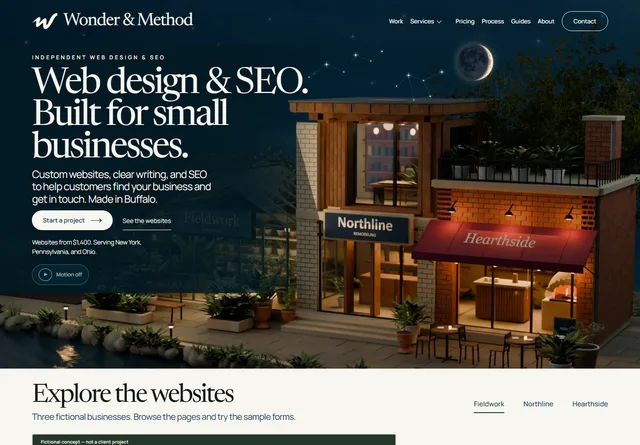
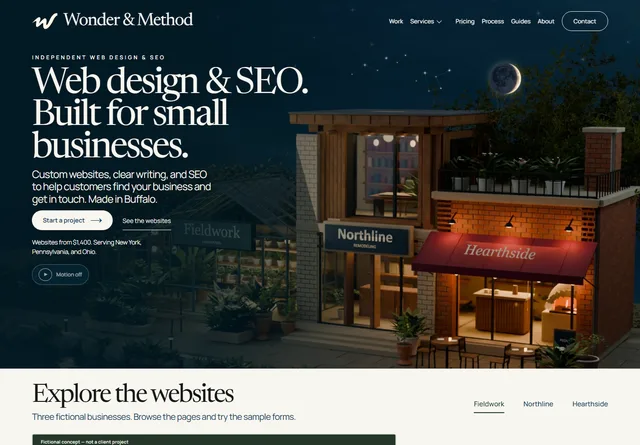
Keep homepage sky effects above the city artwork

diff --git a/src/assets/living-city.css b/src/assets/living-city.css
@@ -10,8 +10,10 @@
 .studio-home.edition-living-city .site-header .service-links a:last-of-type{border:0;padding:10px 16px;color:var(--city-ink)}
 .studio-home.edition-living-city #main{max-width:none;padding:0;margin:0}
 .city-hero{position:relative;isolation:isolate;width:100%;min-height:max(720px,45rem);aspect-ratio:3/2;max-height:max(1200px,75rem);background:#052b3b;color:var(--city-paper);overflow:hidden}
-.city-scene{position:absolute;inset:auto 0 0;height:min(100%,max(720px,66.6667vw));z-index:-2}
-.city-scene picture,.city-poster,.city-film{display:block;width:100%;height:100%;object-fit:cover;object-position:50% 50%}
+.city-scene{position:absolute;inset:auto 0 0;height:min(100%,max(720px,66.6667vw));z-index:-2;container-type:size;overflow:hidden}
+.city-scene picture,.city-poster,.city-film{display:block;width:100%;height:100%;object-fit:cover;object-position:50% 30%}
+/* Match object-fit:cover so decorations stay in the artwork's sky at every crop. */
+.city-atmosphere{position:absolute;z-index:1;left:50%;top:30%;width:max(100cqw,150cqh);height:max(100cqh,66.6666667cqw);transform:translate(-50%,-30%);pointer-events:none}
 .city-film{position:absolute;inset:0;opacity:0;pointer-events:none}
 .has-city-frame .city-film{opacity:1}
 .city-copy{position:relative;padding:max(clamp(100px,8.3vw,150px),6.25rem) 5% 0;width:100%;pointer-events:none}
@@ -106,7 +108,7 @@ html:not(.nav-ready) .studio-home.edition-living-city .city-copy{padding-top:26p
 .city-hero{display:grid;aspect-ratio:auto;grid-template-columns:repeat(auto-fit,minmax(min(100%,max(26rem,48%)),1fr));grid-template-rows:1fr auto;column-gap:4%;align-items:start;padding:max(clamp(110px,8.3vw,150px),calc(var(--site-header-height,94px) + 12px)) 5% 28px;min-height:max(820px,51.25rem);max-height:none}
 .city-scene{height:100%}
 .city-copy{z-index:4;width:auto;padding:0}.city-copy h1{max-width:none}.city-actions{gap:22px}.city-copy .city-lede{max-width:29ch}
-.city-copy::before{content:'';position:absolute;inset:-18px -22px -18px -5vw;z-index:-1;background:linear-gradient(90deg,#021923ed 0%,#021923dc 76%,#02192300 100%);pointer-events:none}@media(max-width:1023px){.city-copy::before{content:none}}
+.city-hero::after{content:'';position:absolute;inset:0;z-index:-1;background:linear-gradient(90deg,#021923e6 0%,#021923c7 31%,#02192370 48%,#02192300 70%);pointer-events:none}@media(max-width:1023px){.city-hero::after{content:none}}
 .city-controls{position:relative;z-index:5;inset:auto;margin:18px 0 0;justify-content:flex-start;max-width:340px}
 .city-controls button{font-size:.75rem;background:#052b3be8}.city-controls [data-city-replay]{border-color:transparent;background:#052b3bcc}
 .city-status{position:absolute!important;width:1px!important;height:1px;overflow:hidden;clip-path:inset(50%);white-space:nowrap;padding:0!important}
@@ -122,13 +124,13 @@ html:not(.nav-ready) .studio-home.edition-living-city .city-copy{padding-top:26p
 .city-features{padding-left:18px;margin:22px 0 0;font-size:.9rem;line-height:1.65;color:#385249}.city-project-actions{display:flex;align-items:center;gap:16px;flex-wrap:wrap;margin-top:20px}.city-project-actions .city-project-link{margin-top:0}.city-sample-link{display:inline-flex;align-items:center;min-height:44px;font-size:.85rem;color:#345449;text-underline-offset:4px}.city-demo-note{font-size:.875rem;line-height:1.6;color:#576960;max-width:75ch;margin:28px 0 0}.city-project{scroll-margin-top:calc(var(--site-header-height,94px) + 24px)}
 @media(min-width:1024px){.city-copy h1{font-size:clamp(3.5rem,5.6vw,6.4rem)}.city-copy .city-lede{font-size:clamp(1.05rem,1.6vw,1.6rem)}}
 @media(max-width:1023px){
- .city-hero{display:flex;flex-direction:column;aspect-ratio:auto;min-height:0;max-height:none;padding:0 0 24px;background:#041f2a}.city-copy{order:1;width:100%;padding:max(110px,calc(var(--site-header-height,84px) + 18px)) 5% 0}.city-copy .city-lede{max-width:34ch}.city-copy h1{max-width:650px}.city-controls{position:relative;inset:auto;align-self:flex-start;margin:14px 0 0;justify-content:flex-start;max-width:90%;gap:5px}.city-status{text-align:left}.city-showcase{position:relative;order:3;inset:auto;width:90%;max-width:600px;min-height:76.86vw;margin:calc(-76.86vw + 20px) 5% 0;align-self:center}.city-reveal{position:relative;width:100%}.city-scene{position:relative;order:2;inset:auto;flex:none;height:auto;aspect-ratio:828/1216;max-height:none;margin-top:-70vw;mask-image:linear-gradient(to bottom,transparent,#000 25%,#000 94%,transparent)}.city-poster,.city-film{object-position:50% 100%}.city-chooser{position:relative;inset:auto;align-self:stretch;margin:24px 5% 0;flex-wrap:wrap;gap:12px;padding:16px 20px}.city-chooser>div{gap:10px}.city-chooser p>span{display:inline;margin-left:14px}
+ .city-hero{display:flex;flex-direction:column;aspect-ratio:auto;min-height:0;max-height:none;padding:0 0 24px;background:#041f2a}.city-copy{order:1;width:100%;padding:max(110px,calc(var(--site-header-height,84px) + 18px)) 5% 0}.city-copy .city-lede{max-width:34ch}.city-copy h1{max-width:650px}.city-controls{position:relative;inset:auto;align-self:flex-start;margin:14px 0 0;justify-content:flex-start;max-width:90%;gap:5px}.city-status{text-align:left}.city-showcase{position:relative;order:3;inset:auto;width:90%;max-width:600px;min-height:76.86vw;margin:calc(-76.86vw + 20px) 5% 0;align-self:center}.city-reveal{position:relative;width:100%}.city-scene{position:relative;order:2;inset:auto;flex:none;width:100%;height:auto;aspect-ratio:828/1216;max-height:none;margin-top:-70vw;mask-image:linear-gradient(to bottom,transparent,#000 25%,#000 94%,transparent)}.city-poster,.city-film{object-position:50% 100%}.city-chooser{position:relative;inset:auto;align-self:stretch;margin:24px 5% 0;flex-wrap:wrap;gap:12px;padding:16px 20px}.city-chooser>div{gap:10px}.city-chooser p>span{display:inline;margin-left:14px}
 }
 @media(max-width:767px){
  .city-copy{padding:calc(var(--site-header-height,84px) + 10px) 6.4% 0}.city-copy h1{font-size:clamp(2rem,10.5vw,4.5rem)}.city-copy .city-lede{font-size:clamp(.95rem,3.9vw,1.55rem);max-width:30ch}.city-actions{display:flex;gap:8px 20px}.city-copy .city-primary{font-size:1rem;padding:8px 20px}.city-explore{font-size:1rem}.city-copy .city-location{font-size:1rem;margin-top:8px;max-width:38ch}.city-controls{margin:12px 0 0;max-width:100%;gap:2px 5px}.city-controls button{font-size:.875rem;padding:5px 9px}.city-controls [data-city-replay]{font-size:.875rem}.city-controls .city-status{width:auto;max-width:100%}.city-showcase{width:87.2%;margin-inline:6.4%}.city-reveal-bar{padding:8px 10px;font-size:.75rem}.city-reveal img{aspect-ratio:1240/720}.city-reveal-copy{padding:17px 19px}.city-reveal-copy .city-reveal-title{font-size:1.8rem}.city-reveal-copy p{font-size:.85rem}.city-reveal-copy .city-reveal-category{font-size:.8125rem}.city-reveal-copy a{font-size:.9375rem}.city-chooser{margin:20px 6.4% 0;padding:14px 15px;display:block}.city-chooser p{font-size:.9rem;margin-bottom:10px}.city-chooser p>span{display:block;margin-left:0;font-size:.72rem}.city-chooser>div{display:grid;grid-template-columns:repeat(auto-fit,minmax(min(100%,4.4rem),1fr));gap:6px}.city-choice{font-size:clamp(.75rem,3.3vw,.8rem);padding:7px 1px;gap:3px;white-space:nowrap;justify-content:center}.city-choice>span:last-child{display:none}.city-choice-dot{width:5px;height:5px;flex-shrink:0}.city-project{display:flex;flex-direction:column;gap:22px}.city-project-copy{order:-1;padding-top:6px}.city-preview{width:100%;height:auto;max-height:none;aspect-ratio:auto;overflow:hidden}.city-preview img{object-fit:cover;object-position:top}.city-project-copy .city-description{font-size:.95rem;line-height:1.55}.city-features{font-size:.83rem;margin-top:16px}.city-project-actions{margin-top:15px;gap:10px 18px}.city-demo-note{font-size:.875rem}
 }
 /* Staggered points of light stay in the sky and share the film's pause state. */
-.city-stars{position:absolute;inset:0 0 auto;height:42%;z-index:-1;pointer-events:none;overflow:hidden}
+.city-stars{position:absolute;inset:0 0 auto;height:calc(29% - 18px);z-index:0;pointer-events:none;overflow:hidden}
 .city-star{position:absolute;left:var(--star-x);top:var(--star-y);width:3px;height:3px;border-radius:50%;background:#fff2cf;box-shadow:0 0 7px 2px #d8e8ff88;opacity:.25;animation:city-twinkle var(--star-period,4s) ease-in-out var(--star-delay,0s) infinite;animation-play-state:paused}
 .city-star:nth-child(3n+1)::before,.city-star:nth-child(3n+1)::after{content:'';position:absolute;left:50%;top:50%;width:15px;height:1px;transform:translate(-50%,-50%);background:linear-gradient(90deg,transparent,#fff4d9,transparent)}
 .city-star:nth-child(3n+1)::after{transform:translate(-50%,-50%) rotate(90deg)}
@@ -153,8 +155,8 @@ html:not(.nav-ready) .studio-home.edition-living-city .city-copy{padding-top:26p
 .is-city-playing .city-star{animation-play-state:running}
 @keyframes city-twinkle{0%,100%{opacity:.18;transform:scale(.6)}35%{opacity:.35;transform:scale(.85)}52%{opacity:1;transform:scale(1.5)}70%{opacity:.3;transform:scale(.8)}}
 /* The sky continues after the introduction; every effect shares the playback state. */
-.city-night{position:absolute;z-index:0;top:-55px;left:-20%;width:90%;max-width:450px;height:150px;pointer-events:none}
-.city-moon{position:absolute;right:0;top:-6px;width:100px;height:100px}
+.city-night{position:absolute;z-index:1;bottom:calc(71% + 18px);left:48%;width:34%;height:clamp(76px,9vw,110px);pointer-events:none;overflow:hidden}
+.city-moon{position:absolute;right:0;bottom:0;width:clamp(60px,6vw,88px);height:auto;aspect-ratio:1}
 .city-moon-surface{position:absolute;inset:0;background:url('/assets/living-city-night/crescent-moon.webp') center/contain no-repeat;filter:drop-shadow(0 0 8px #ffe8b94d)}
 .city-moon-halo{position:absolute;inset:-28%;border-radius:50%;background:radial-gradient(ellipse,#b9dcf21c 0%,#b9dcf20a 35%,transparent 67%);opacity:.6}
 .city-constellations{position:absolute;inset:0;width:100%;height:100%;overflow:visible}
@@ -175,8 +177,8 @@ html:not(.nav-ready) .studio-home.edition-living-city .city-copy{padding-top:26p
 @keyframes city-constellation-trace{0%{stroke-dashoffset:1;opacity:0}12%{opacity:.45}32%,65%{stroke-dashoffset:0;opacity:.45}84%,100%{stroke-dashoffset:0;opacity:0}}
 @keyframes city-map-glimmer{0%,100%{opacity:.4}38%{opacity:.6}55%{opacity:1}76%{opacity:.55}}
 @keyframes city-shooting-star{0%,5%{opacity:0;transform:translate(0,0) rotate(24deg) scaleX(.35)}6.5%{opacity:1}13%{opacity:0;transform:translate(var(--meteor-x),var(--meteor-y)) rotate(24deg) scaleX(1)}100%{opacity:0;transform:translate(var(--meteor-x),var(--meteor-y)) rotate(24deg) scaleX(1)}}
-/* The proportional mobile artwork and its sky share the copy baseline. */
-@media(max-width:1023px){.city-night{top:-20px;left:0;width:100%;max-width:none;height:clamp(48px,16vw,128px);overflow:hidden}.city-moon{right:2%;top:0;width:clamp(48px,12vw,96px);height:clamp(48px,12vw,96px)}.city-constellations{height:100%}}
+/* The mobile camera has a taller sky; its decorations use those same source coordinates. */
+@media(max-width:1023px){.city-atmosphere{top:100%;width:max(100cqw,68.0921053cqh);height:max(100cqh,146.8599034cqw);transform:translate(-50%,-100%)}.city-night{top:48%;bottom:auto;left:6.4%;width:87.2%;height:10%}.city-moon{right:2%;top:0;bottom:auto;width:14%}.city-constellations{height:100%}}
 @media(max-width:767px){.city-constellations{width:91%;left:-1%;top:0}.city-meteor{left:3%;top:8%;width:75px;--meteor-x:185px;--meteor-y:55px}.city-meteor--two{left:24%;top:4%;width:56px;--meteor-x:150px;--meteor-y:44px}}
 /* Each real website turns into view, then rests flat so its type stays sharp. */
 .city-reveal{--reveal-ink:#233e32;--reveal-light:#bfd6a9;--reveal-turn:4deg;--reveal-drift:34px;border-color:#f8f6ef80;border-radius:15px;box-shadow:0 32px 80px -18px #00141ff2,0 0 36px -20px var(--reveal-light);transform-origin:50% 65%;transform:translateY(-18px) scale(.97);transition:opacity .38s ease,transform .5s ease,visibility .4s}
@@ -206,7 +208,7 @@ html:not(.nav-ready) .studio-home.edition-living-city .city-copy{padding-top:26p
 @keyframes city-card-arrive{0%{opacity:0;transform:perspective(1400px) translate(var(--reveal-drift),16px) rotateY(-8deg) rotateZ(var(--reveal-turn)) scale(.9)}68%{opacity:1;transform:perspective(1400px) translate(0,-5px) rotateY(0) rotateZ(-.6deg) scale(1.008)}100%{opacity:1;transform:none}}
 @keyframes city-caption-arrive{from{opacity:0;transform:translateY(13px)}to{opacity:1;transform:none}}
 @keyframes city-card-gleam{0%{opacity:0;transform:translateX(-65%)}25%{opacity:.6}100%{opacity:0;transform:translateX(65%)}}
-@media(max-width:1023px){.city-stars{height:34%}.city-star:nth-child(3n+1)::before,.city-star:nth-child(3n+1)::after{width:12px}.city-reveal{--reveal-drift:12px;--reveal-turn:2deg}.city-reveal--northline{--reveal-drift:-12px;--reveal-turn:-2deg}}
+@media(max-width:1023px){.city-stars{height:56%}.city-star:nth-child(3n+1)::before,.city-star:nth-child(3n+1)::after{width:12px}.city-reveal{--reveal-drift:12px;--reveal-turn:2deg}.city-reveal--northline{--reveal-drift:-12px;--reveal-turn:-2deg}}
 @media(max-width:767px){.city-reveal{border-radius:12px}.city-reveal-bar{padding:9px 11px}.city-reveal-copy{padding:18px 20px}.city-reveal-copy .city-reveal-title{font-size:2rem}.city-reveal-copy a{margin-top:12px;padding:7px 13px}.city-star{width:2px;height:2px}.city-star:nth-child(4){--star-x:94%;--star-y:40%}.city-star:nth-child(7){--star-x:89%;--star-y:73%}.city-star:nth-child(10){--star-x:4%;--star-y:87%}.city-star:nth-child(13){--star-x:96%;--star-y:95%}.city-star:nth-child(16){--star-x:51%;--star-y:18%}}
 /* Short screens retain the complete scene below a compact, readable first view. */
 @media(max-height:520px){
